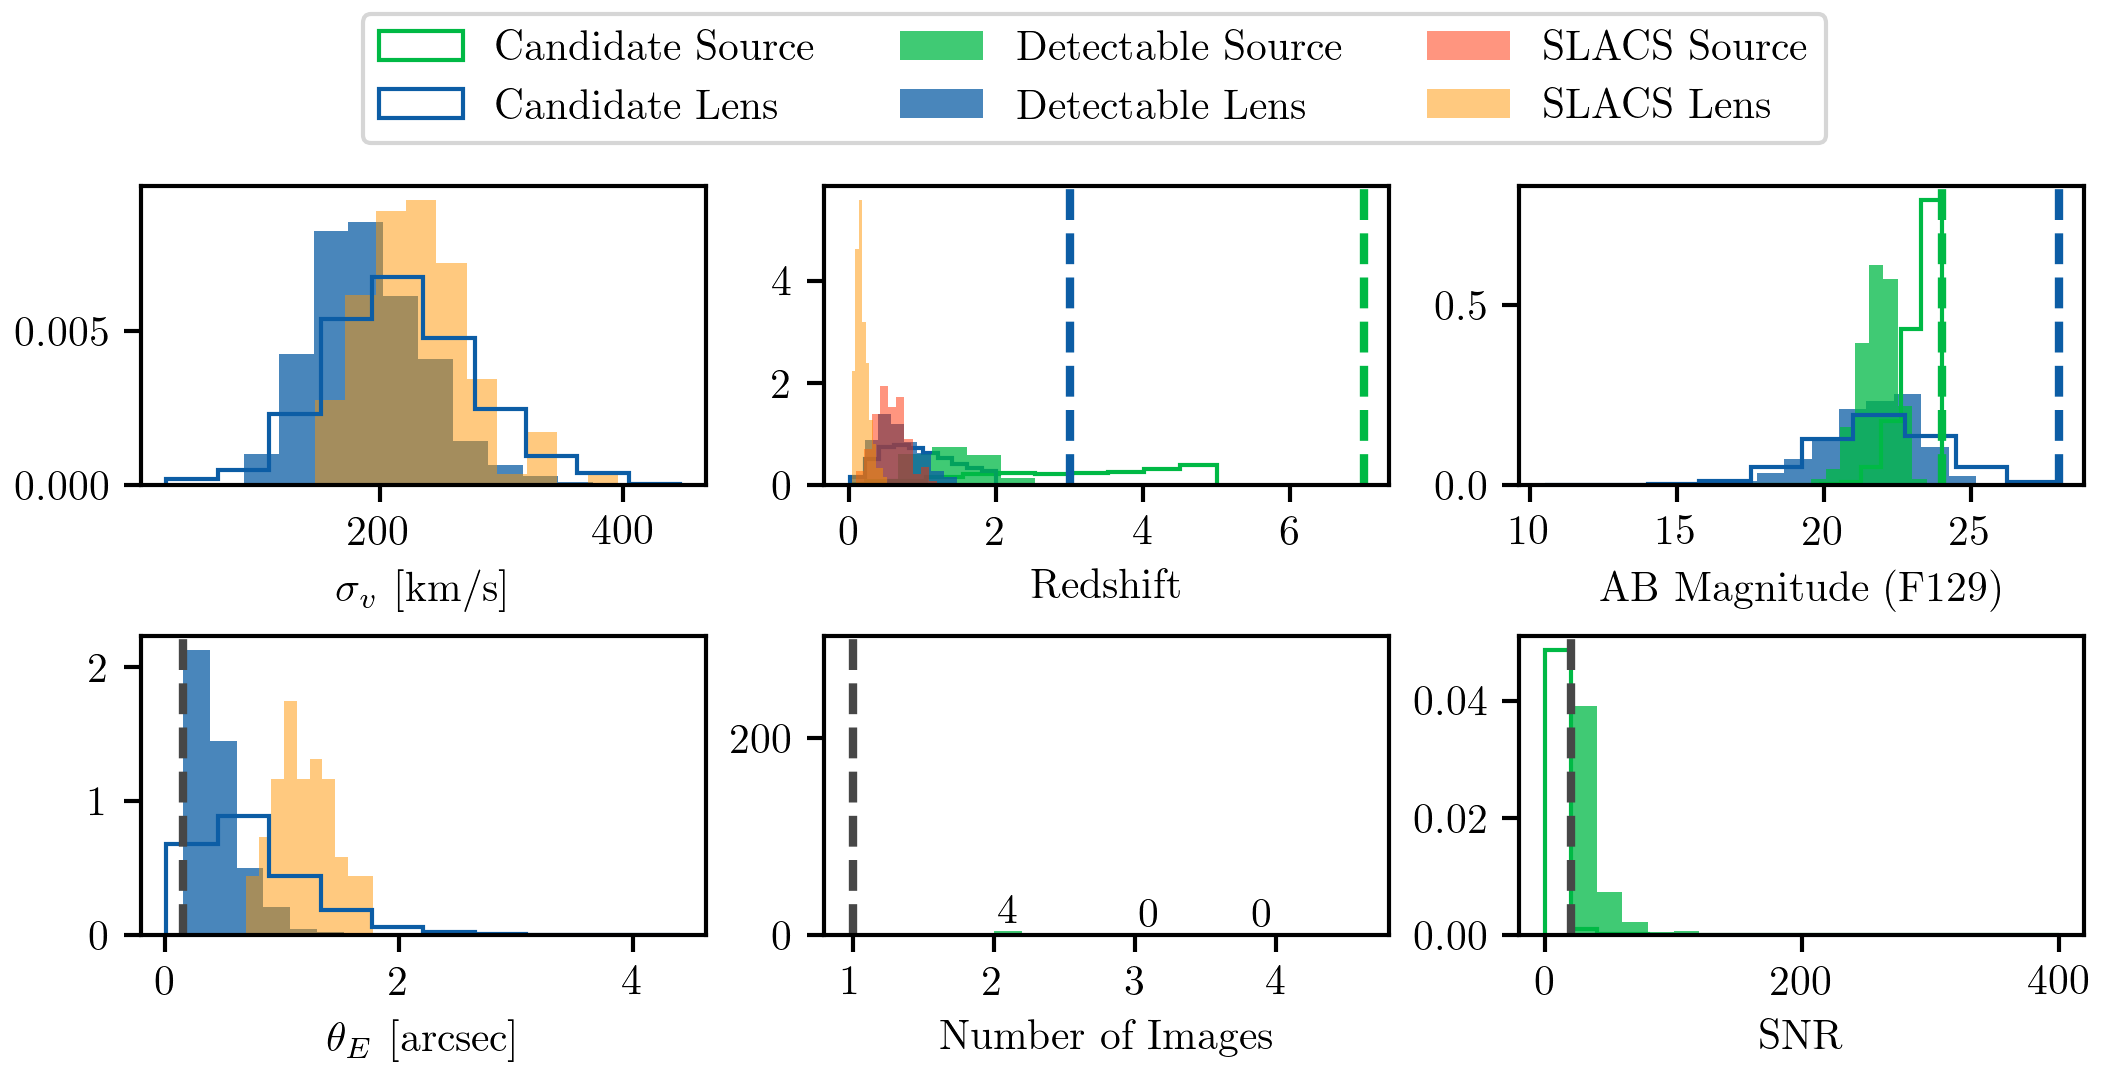
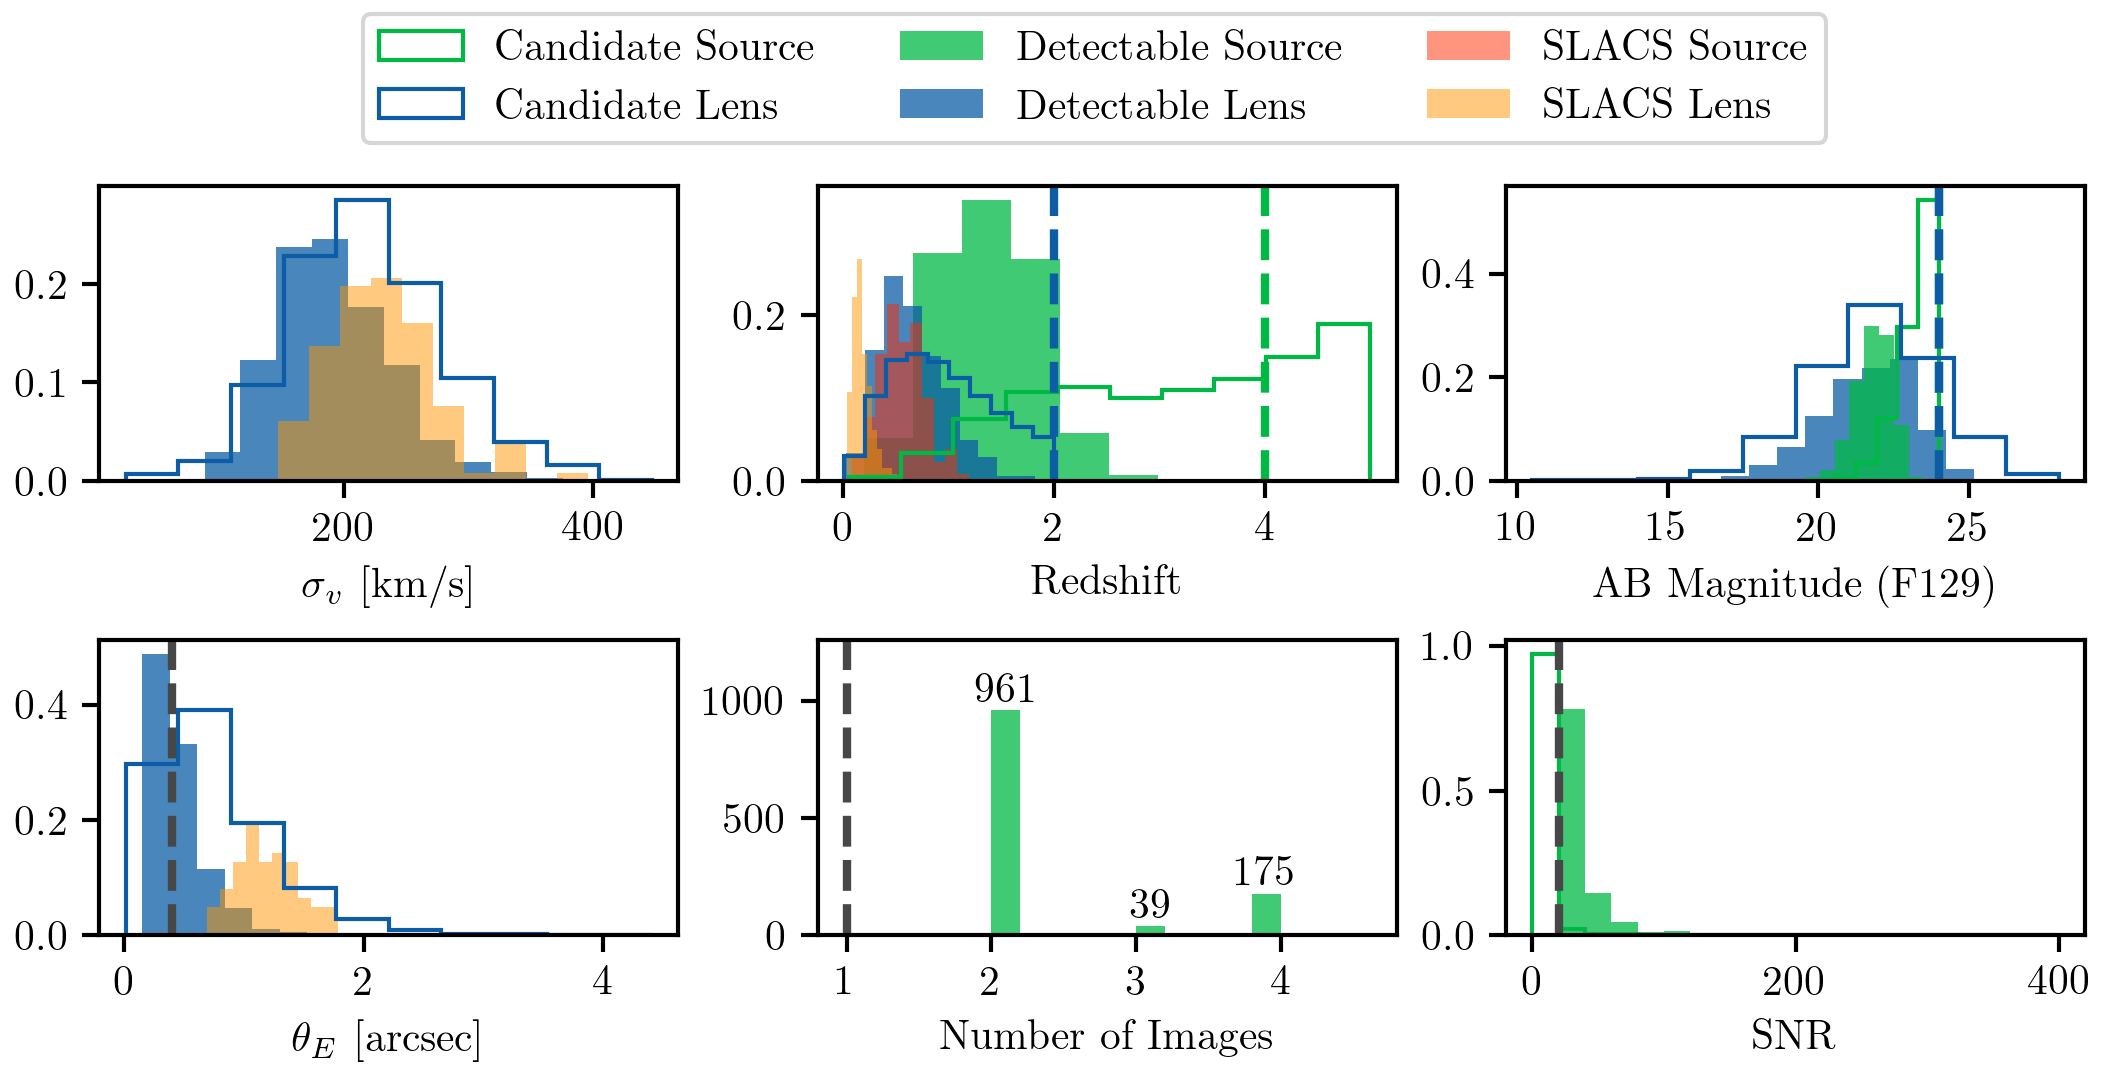
work on probability density for survey sim histograms

diff --git a/mejiro/plots/plot_util.py b/mejiro/plots/plot_util.py
@@ -11,6 +11,10 @@ def normalize(array):
     return array / np.linalg.norm(array)
 
 
+def weights(data):
+    return 1 / len(data) * np.ones(len(data))
+
+
 def get_residual_list(array_list):
     last_array = array_list[-1]
     residual_list = [(last_array - i) for i in array_list]
